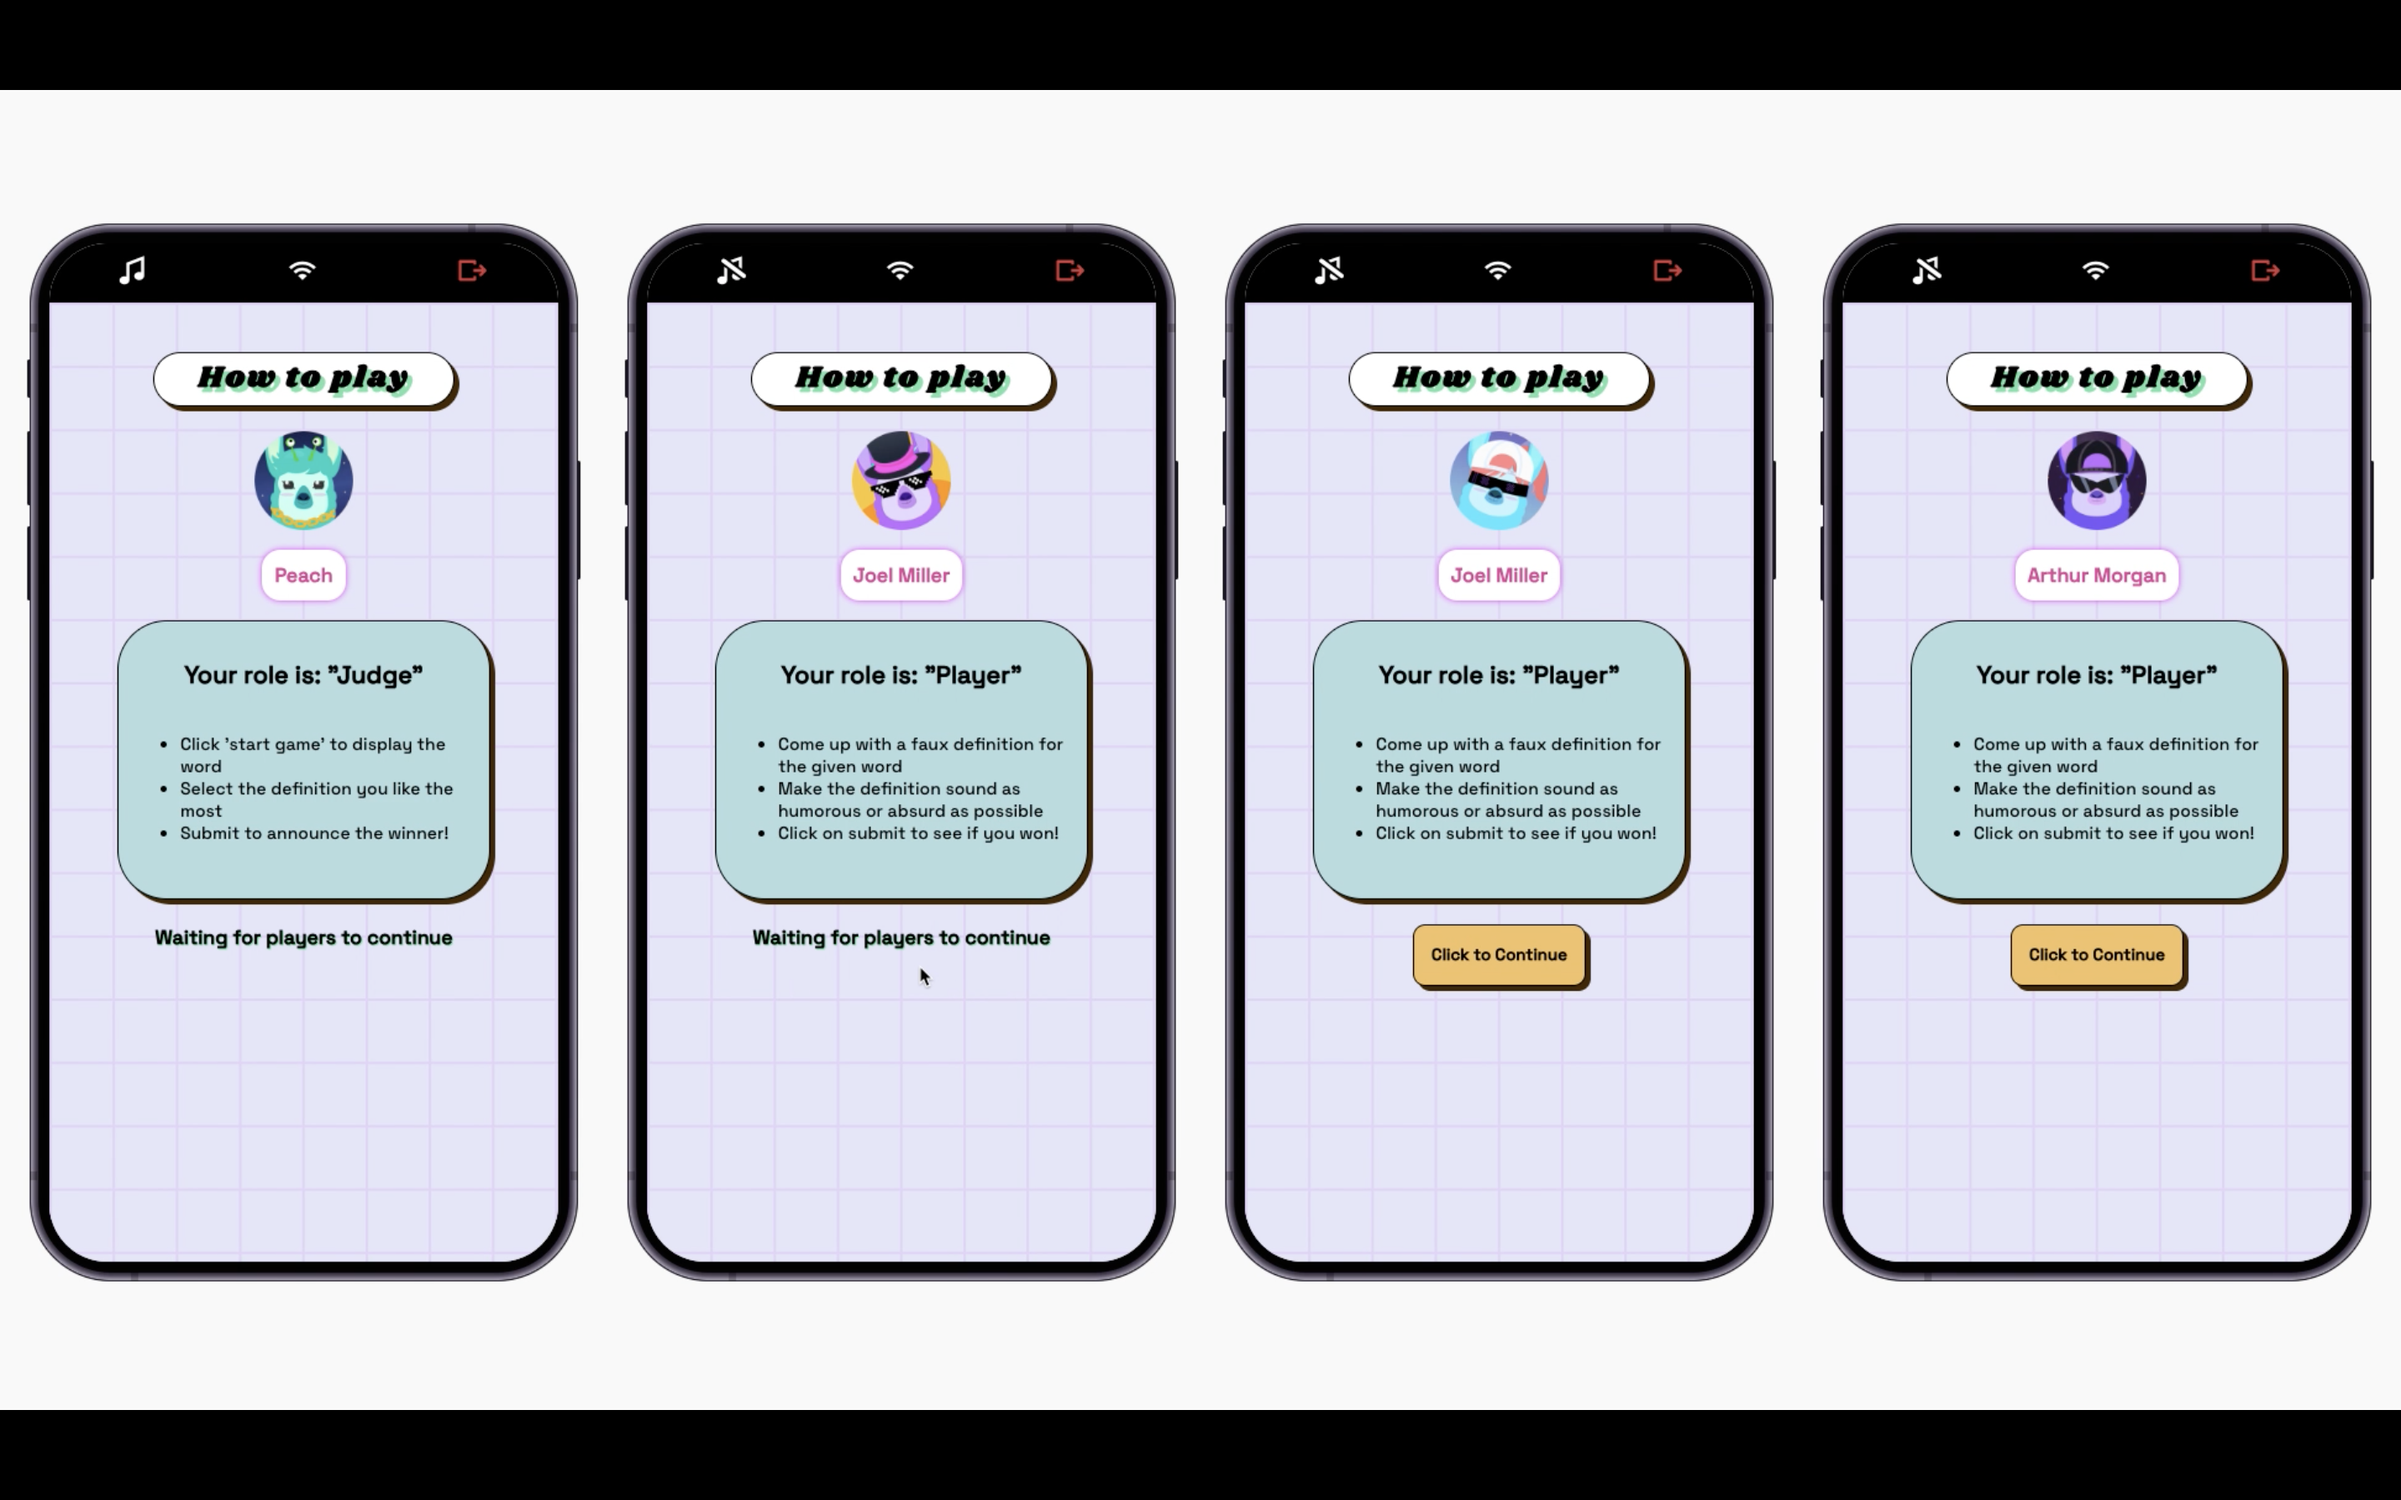
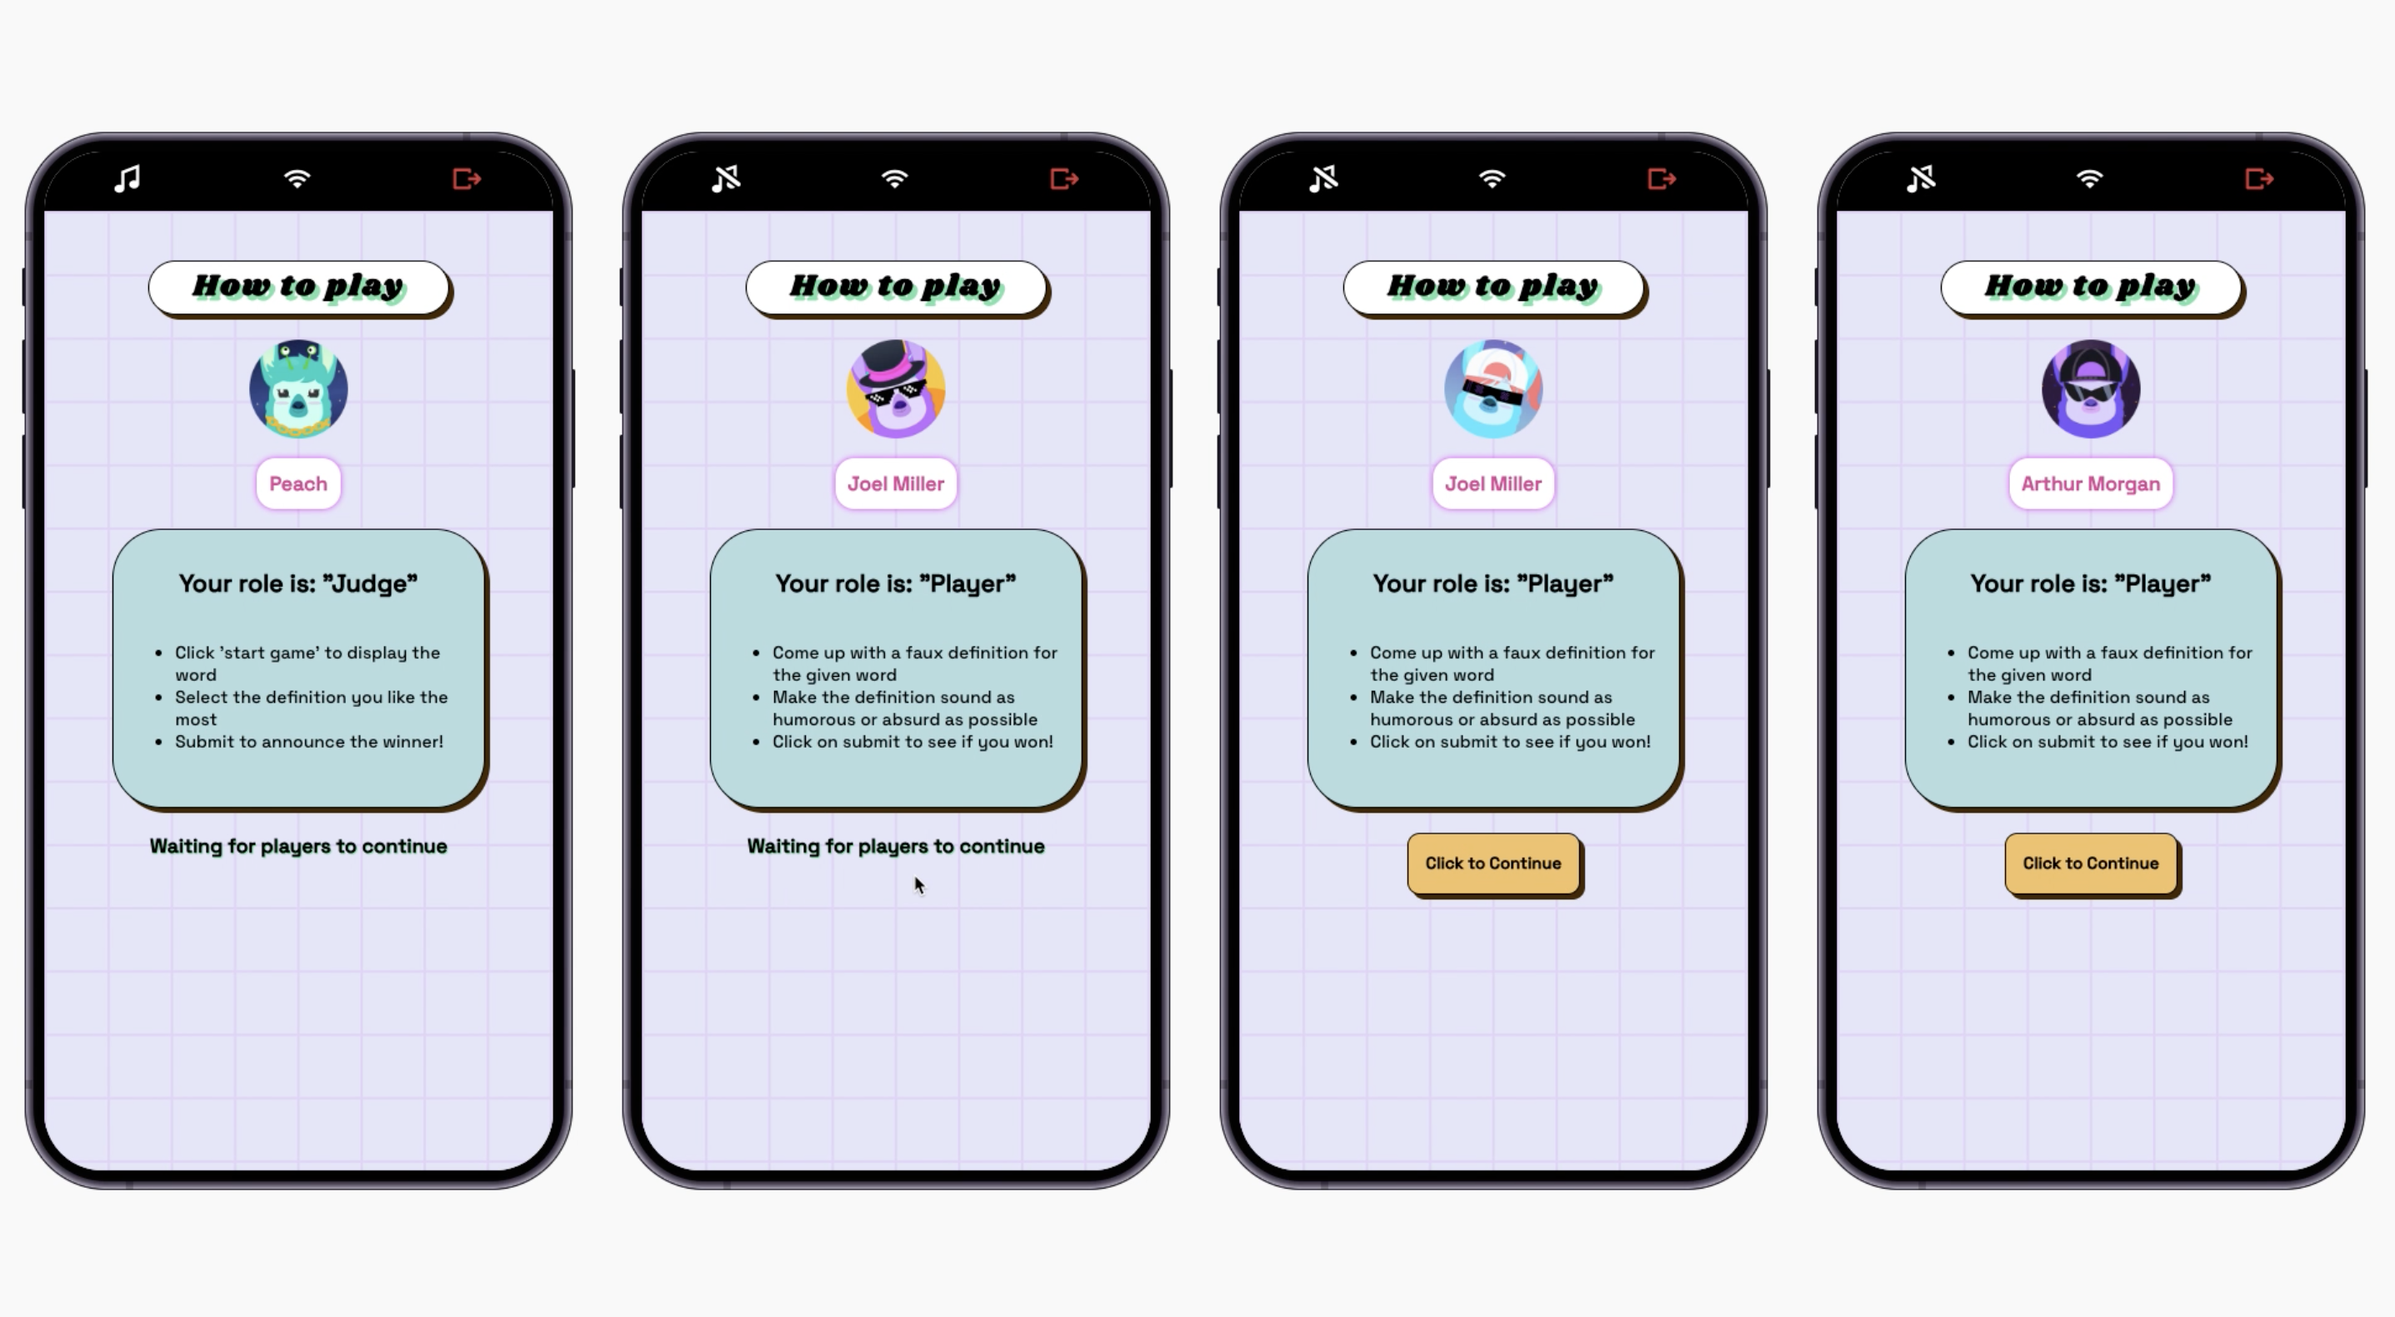
this commit will add cleaner pictures for fauxtionary to the project

diff --git a/src/components/FauxtionaryDemo.jsx b/src/components/FauxtionaryDemo.jsx
@@ -1,0 +1,173 @@
+import React, { useState, useEffect } from "react";
+import { FauxtionaryContent } from "./Content";
+import Flickity from "react-flickity-component";
+
+const flickityOptions = {
+	initialIndex: 0,
+};
+
+const FauxtionaryDemo = () => {
+	const [isMobile, setIsMobile] = useState(false);
+	const [windowWidth, setWindowWidth] = useState(window.innerWidth);
+	const [windowHeight, setWindowHeight] = useState(window.innerHeight);
+
+	useEffect(() => {
+		const setDimensions = () => {
+			const width = window.innerWidth;
+			const height = window.innerHeight;
+			setWindowWidth(width);
+			setWindowHeight(height);
+		};
+		window.addEventListener("resize", setDimensions);
+		return () => window.removeEventListener("resize", setDimensions);
+	}, []);
+
+	useEffect(() => {
+		const detectWidthAndHeight = () => {
+			if (windowWidth < 768) {
+				setIsMobile(true);
+			} else {
+				setIsMobile(false);
+			}
+		};
+		detectWidthAndHeight();
+	}, [windowWidth, windowHeight]);
+
+	return (
+		<>
+			{isMobile === true ? (
+				<div className="mobile-view-project-demo project-section">
+					<div className="mobile-view-item-wrapper">
+						<img
+							className="project-images"
+							src={FauxtionaryContent[0].image}
+							alt="fauxtionary-1"
+						/>
+					</div>
+					<div className="mobile-view-item-wrapper">
+						<img
+							className="project-images"
+							src={FauxtionaryContent[1].image}
+							alt="fauxtionary-2"
+						/>
+					</div>
+					<div className="mobile-view-item-wrapper">
+						<img
+							className="project-images"
+							src={FauxtionaryContent[2].image}
+							alt="fauxtionary-3"
+						/>
+					</div>
+					<div className="mobile-view-item-wrapper">
+						<img
+							className="project-images"
+							src={FauxtionaryContent[3].image}
+							alt="fauxtionary-4"
+						/>
+					</div>
+					<div className="mobile-view-item-wrapper">
+						<img
+							className="project-images"
+							src={FauxtionaryContent[4].image}
+							alt="fauxtionary-5"
+						/>
+					</div>
+					<div className="mobile-view-item-wrapper">
+						<img
+							className="project-images"
+							src={FauxtionaryContent[5].image}
+							alt="fauxtionary-6"
+						/>
+					</div>
+					<div className="mobile-view-item-wrapper">
+						<img
+							className="project-images"
+							src={FauxtionaryContent[6].image}
+							alt="fauxtionary-7"
+						/>
+					</div>
+				</div>
+			) : (
+				<div className="project-section docketeer-demo">
+					<Flickity
+						className={"carousel"} // default ''
+						elementType={"div"} // default 'div'
+						options={flickityOptions} // takes flickity options {}
+						disableImagesLoaded={false} // default false
+						reloadOnUpdate // default false
+						static // default false
+					>
+						<div className="carousel-item-wrapper vimeo-wrapper">
+							<div
+								style={{
+									width: "180%",
+									height: "auto",
+									justifyContent: "center",
+									padding: "0 0 0 0",
+									position: "relative",
+								}}
+							>
+								<iframe
+									src="https://player.vimeo.com/video/874112493?badge=0&amp;autopause=0&amp;quality_selector=1&amp;progress_bar=1&amp;player_id=0&amp;app_id=58479"
+									allow="autoplay; fullscreen; picture-in-picture"
+									title="Fauxtionary - UI Demo"
+								></iframe>
+							</div>
+							<script src="https://player.vimeo.com/api/player.js"></script>
+						</div>
+						<div className="carousel-item-wrapper">
+							<img
+								className="project-images"
+								src={FauxtionaryContent[0].image}
+								alt="fauxtionary-1"
+							/>
+						</div>
+						<div className="carousel-item-wrapper">
+							<img
+								className="project-images"
+								src={FauxtionaryContent[1].image}
+								alt="fauxtionary-2"
+							/>
+						</div>
+						<div className="carousel-item-wrapper">
+							<img
+								className="project-images"
+								src={FauxtionaryContent[2].image}
+								alt="fauxtionary-3"
+							/>
+						</div>
+						<div className="carousel-item-wrapper">
+							<img
+								className="project-images"
+								src={FauxtionaryContent[3].image}
+								alt="fauxtionary-4"
+							/>
+						</div>
+						<div className="carousel-item-wrapper">
+							<img
+								className="project-images"
+								src={FauxtionaryContent[4].image}
+								alt="fauxtionary-5"
+							/>
+						</div>
+						<div className="carousel-item-wrapper">
+							<img
+								className="project-images"
+								src={FauxtionaryContent[5].image}
+								alt="fauxtionary-6"
+							/>
+						</div>
+						<div className="carousel-item-wrapper">
+							<img
+								className="project-images"
+								src={FauxtionaryContent[6].image}
+								alt="fauxtionary-7"
+							/>
+						</div>
+					</Flickity>
+				</div>
+			)}
+		</>
+	);
+};
+export default FauxtionaryDemo;

diff --git a/src/App.js b/src/App.js
@@ -11,7 +11,7 @@ import { BrowserRouter as Router, Routes, Route} from "react-router-dom";
 import DocketeerDemo from "./components/DocketeerDemo"
 import BookCaseDemo from "./components/BookCaseDemo";
 import PetParentDemo from "./components/PetParentDemo";
-
+import FauxtionaryDemo from "./components/FauxtionaryDemo"
 function App() {
   return (
     <div className="App">
@@ -32,6 +32,7 @@ function App() {
 		      <Route path="/docketeer" element={<DocketeerDemo />}></Route>
 					<Route path="/bookcase" element={<BookCaseDemo />}></Route>
 					<Route path="/petparent" element={<PetParentDemo />}></Route>
+          <Route path="/fauxtionary" element={<FauxtionaryDemo />}></Route>
           </Routes>
         </Router>
       </main>

diff --git a/src/components/DocketeerDemo.jsx b/src/components/DocketeerDemo.jsx
@@ -99,7 +99,8 @@ const DocketeerDemo = () => {
 						<div className="carousel-item-wrapper vimeo-wrapper">
 							<div
 								style={{
-									width: "100%",
+									width: "110%",
+									height: "auto",
 									justifyContent: "center",
 									padding: "0 0 0 0",
 									position: "relative",
